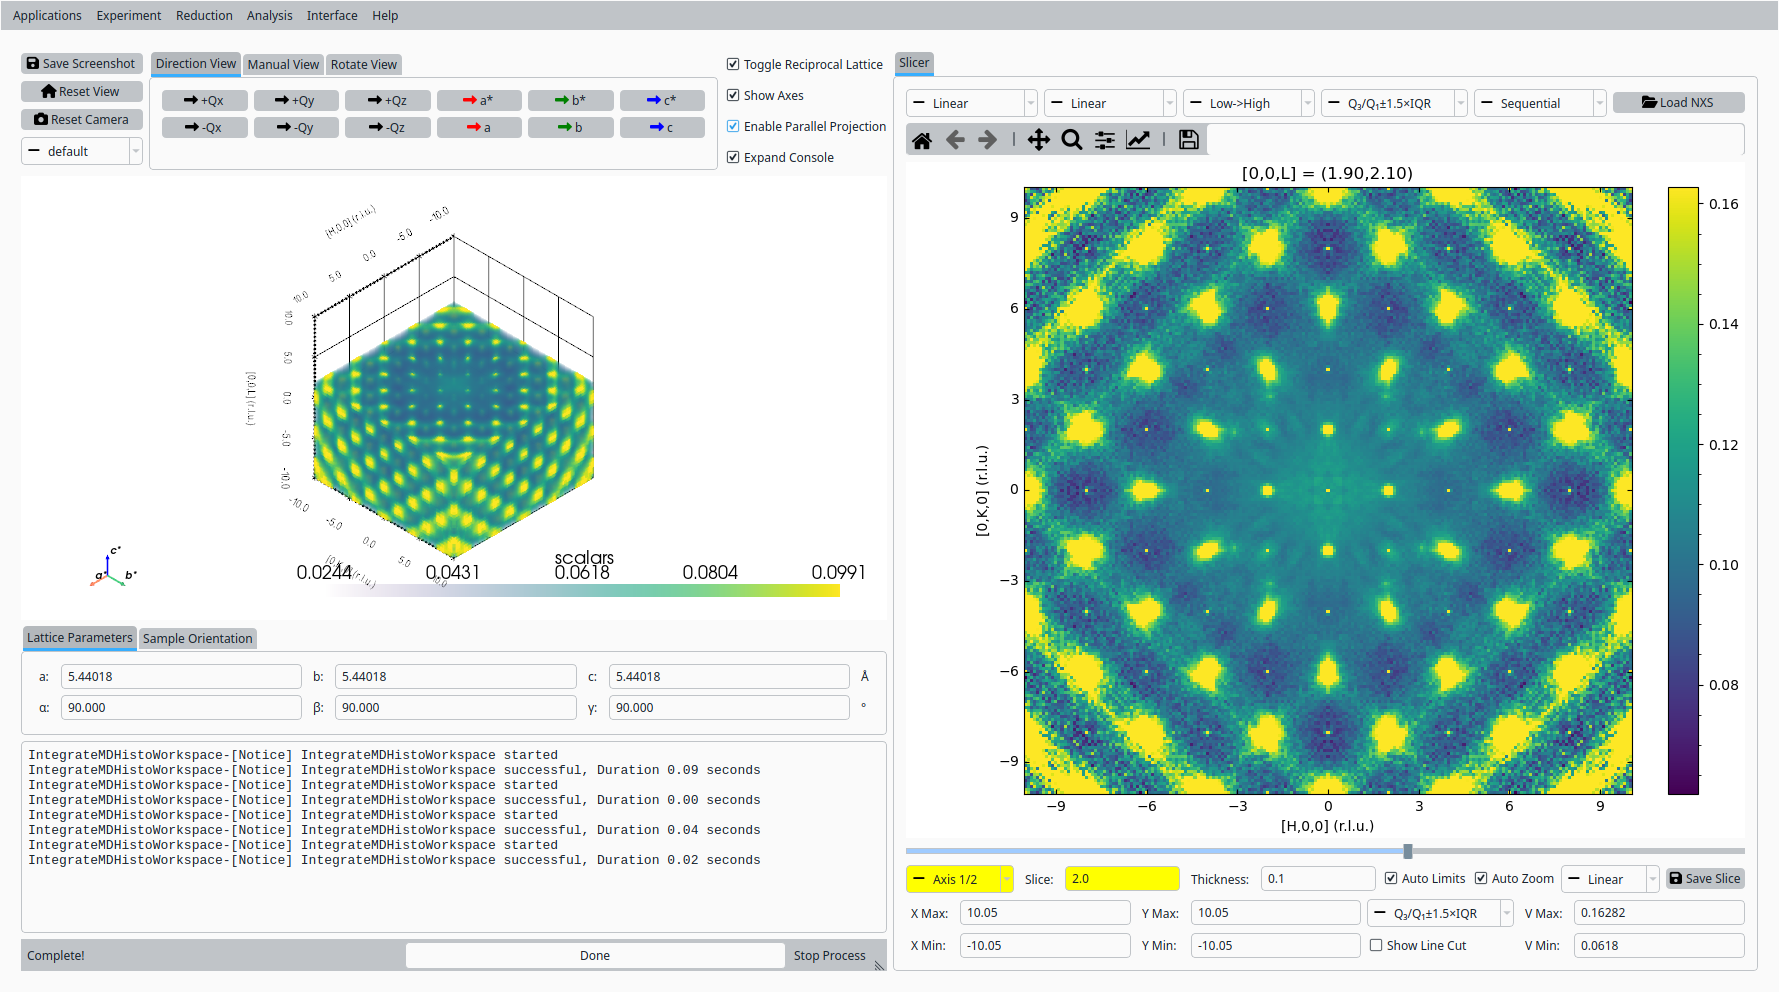
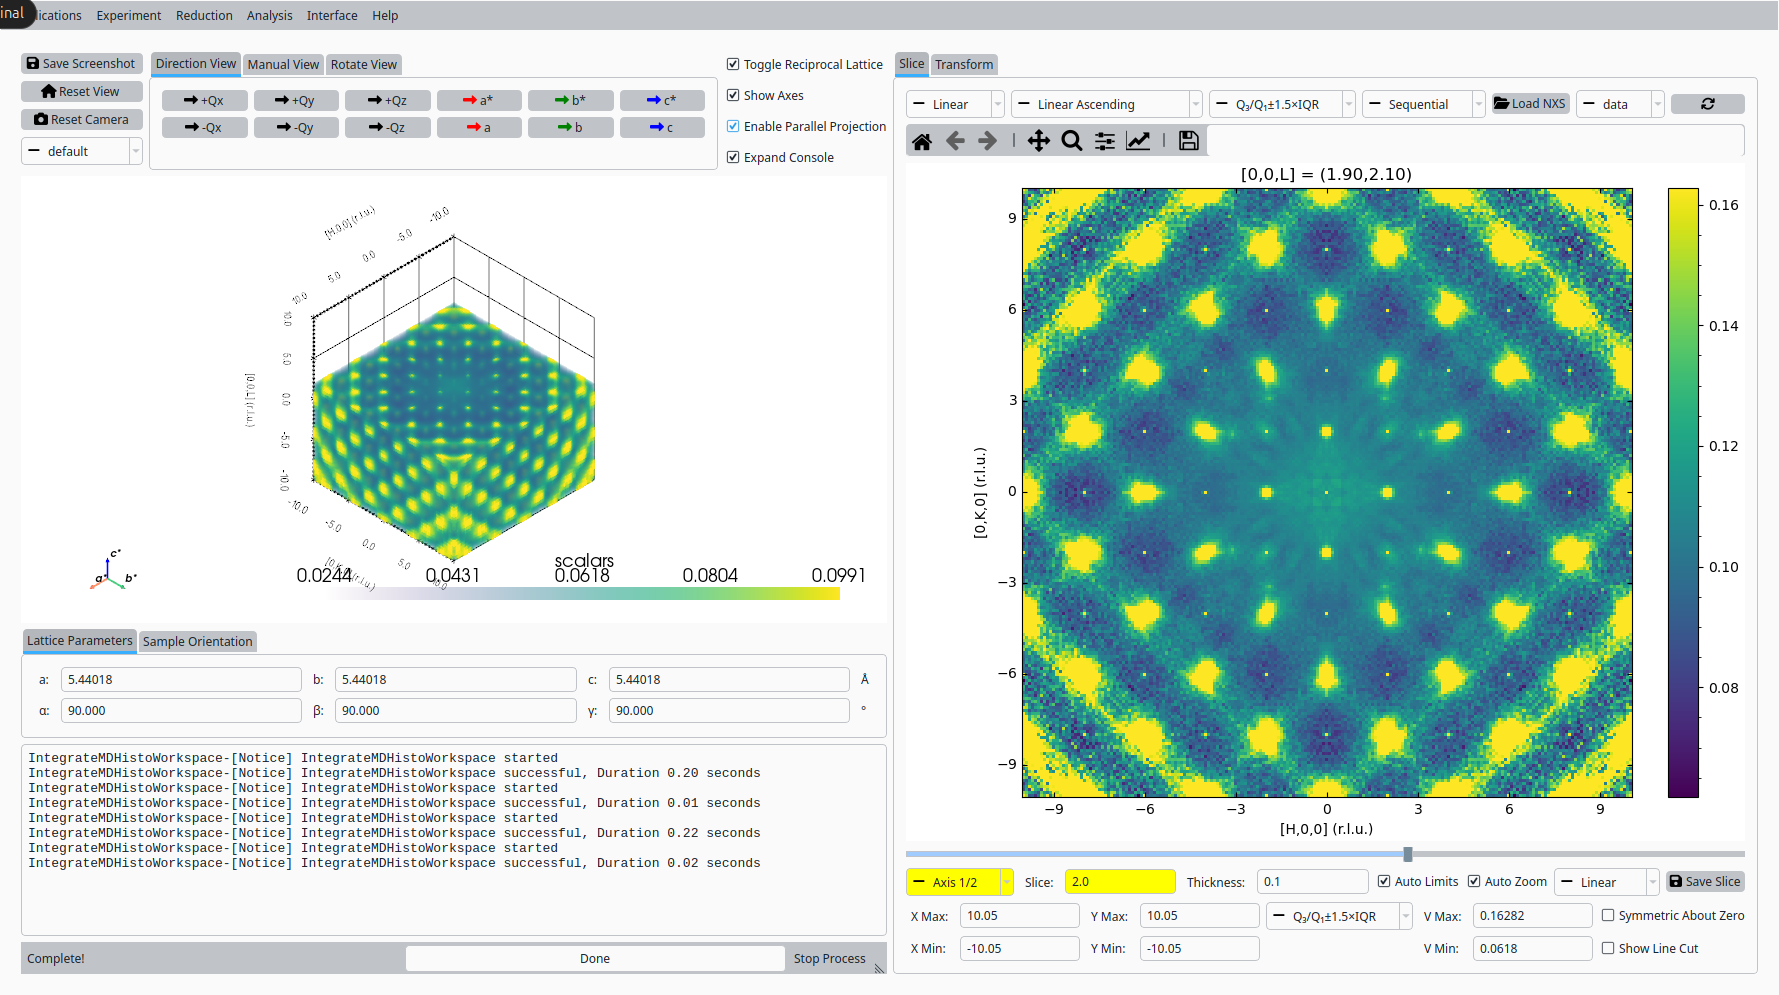
Adding 3d-deltaPDF tuttorials

diff --git a/tests/applications/volume-slicer.py b/tests/applications/volume-slicer.py
@@ -10,6 +10,14 @@ from utilities import run_qt_scenario, copy_generated_pngs
 DIRECTORY = os.path.dirname(os.path.abspath(__file__))
 
 
+def _select_combo_item_starting_with(combo, prefix):
+    for i in range(combo.count()):
+        if combo.itemText(i).startswith(prefix):
+            combo.setCurrentIndex(i)
+            return
+    raise ValueError(f"No combo item starting with {prefix!r}")
+
+
 def TOPAZ_Si_volume(app, window):
     directory = os.path.join(DIRECTORY, "TOPAZ")
 
@@ -24,6 +32,7 @@ def TOPAZ_Si_volume(app, window):
         + "Si_AG_300K_(h,k,0)_[0,0,l]_"
         + "[-10.0,10.0]_[-10.0,10.0]_[-10.0,10.0]_201x201x201_m-3m_sub_bkg.nxs"
     )
+    vs_presenter.refresh_workspace_lists()
     vs_presenter.update_oriented_lattice()
     vs_presenter.view.set_transform(vs_presenter.model.get_transform())
     vs_presenter.redraw_data()
@@ -84,8 +93,206 @@ def TOPAZ_Si_volume(app, window):
     copy_generated_pngs(directory)
 
 
+def CORELLI_Bixbyite_deltaPDF(app, window):
+    directory = os.path.join(DIRECTORY, "CORELLI")
+
+    app_stack = window.centralWidget().layout().itemAt(0).widget()
+    app_stack.setCurrentIndex(2)
+
+    vs_presenter = window.vs
+    vs_view = vs_presenter.view
+
+    # --- Step 1: load the 6 K data ----------------------------------
+    vs_presenter.model.load_md_histo_workspace(
+        "/SNS/EXAMPLES/CORELLI/IPTS-12345/shared/"
+        + "bixbyite_006K_(h,k,0)_[0,0,l]_"
+        + "[-10.0,10.0]_[-10.0,10.0]_[-10.0,10.0]_201x201x201_m-3.nxs",
+        display_name="006K",
+    )
+    vs_presenter.refresh_workspace_lists()
+    vs_presenter.update_oriented_lattice()
+    vs_view.set_transform(vs_presenter.model.get_transform())
+    vs_presenter.redraw_data()
+
+    vs_view.load_NXS_button.setStyleSheet("background-color: green;")
+
+    QTest.qWait(1000 * 10)
+
+    app.primaryScreen().grabWindow(window.winId()).save(
+        os.path.join(directory, "Bixbyite_deltaPDF_load_006K.png"), "png"
+    )
+
+    vs_view.load_NXS_button.setStyleSheet("")
+
+    # --- Step 2: load the 300 K data ---------------------------------
+    vs_presenter.model.load_md_histo_workspace(
+        "/SNS/EXAMPLES/CORELLI/IPTS-12345/shared/"
+        + "bixbyite_300K_(h,k,0)_[0,0,l]_"
+        + "[-10.0,10.0]_[-10.0,10.0]_[-10.0,10.0]_201x201x201_m-3.nxs",
+        display_name="300K",
+    )
+    vs_presenter.refresh_workspace_lists()
+    vs_presenter.redraw_data()
+
+    vs_view.load_NXS_button.setStyleSheet("background-color: green;")
+
+    QTest.qWait(1000 * 10)
+
+    app.primaryScreen().grabWindow(window.winId()).save(
+        os.path.join(directory, "Bixbyite_deltaPDF_load_300K.png"), "png"
+    )
+
+    vs_view.load_NXS_button.setStyleSheet("")
+
+    # --- Step 3: subtract the scaled 300 K background ----------------
+    vs_view.tab_widget.setCurrentIndex(1)
+
+    vs_view.combine_ws_a_combo.setCurrentText("006K")
+    vs_view.combine_ws_b_combo.setCurrentText("300K")
+    vs_view.combine_coeff_b_line.setText("0.95")
+    vs_view.combine_output_line.setText("subtracted")
+
+    vs_view.combine_ws_a_combo.setStyleSheet("background-color: yellow;")
+    vs_view.combine_ws_b_combo.setStyleSheet("background-color: yellow;")
+    vs_view.combine_coeff_b_line.setStyleSheet("background-color: yellow;")
+    vs_view.combine_output_line.setStyleSheet("background-color: yellow;")
+    vs_view.combine_button.setStyleSheet("background-color: green;")
+
+    QTest.mouseClick(vs_view.combine_button, Qt.LeftButton)
+    QTest.qWait(1000 * 5)
+
+    app.primaryScreen().grabWindow(window.winId()).save(
+        os.path.join(directory, "Bixbyite_deltaPDF_subtract.png"), "png"
+    )
+
+    vs_view.combine_ws_a_combo.setStyleSheet("")
+    vs_view.combine_ws_b_combo.setStyleSheet("")
+    vs_view.combine_coeff_b_line.setStyleSheet("")
+    vs_view.combine_output_line.setStyleSheet("")
+    vs_view.combine_button.setStyleSheet("")
+
+    # --- Step 4: view the subtracted data -----------------------------
+    vs_view.workspace_combo.setCurrentText("subtracted")
+    QTest.qWait(1000 * 10)
+
+    vs_view.vmin_line.setText("0")
+    vs_view.vmax_line.setText("0.00001")
+    vs_presenter.update_cvals()
+
+    vs_view.workspace_combo.setStyleSheet("background-color: yellow;")
+    vs_view.vmin_line.setStyleSheet("background-color: yellow;")
+    vs_view.vmax_line.setStyleSheet("background-color: yellow;")
+
+    QTest.qWait(1000 * 5)
+
+    app.primaryScreen().grabWindow(window.winId()).save(
+        os.path.join(directory, "Bixbyite_deltaPDF_view_subtracted.png"), "png"
+    )
+
+    vs_view.workspace_combo.setStyleSheet("")
+    vs_view.vmin_line.setStyleSheet("")
+    vs_view.vmax_line.setStyleSheet("")
+
+    # --- Step 5: punch the Bragg peaks --------------------------------
+    index = vs_view.pdf_crystal_system_combo.findText("Cubic")
+    vs_view.pdf_crystal_system_combo.setCurrentIndex(index)
+    vs_presenter.update_pdf_space_groups()
+    _select_combo_item_starting_with(vs_view.pdf_space_group_combo, "206:")
+
+    vs_view.punch_input_combo.setCurrentText("subtracted")
+    vs_view.punch_q_size_line.setText("0.25")
+
+    vs_view.pdf_crystal_system_combo.setStyleSheet("background-color: yellow;")
+    vs_view.pdf_space_group_combo.setStyleSheet("background-color: yellow;")
+    vs_view.punch_input_combo.setStyleSheet("background-color: yellow;")
+    vs_view.punch_q_size_line.setStyleSheet("background-color: yellow;")
+    vs_view.run_punch_button.setStyleSheet("background-color: green;")
+
+    QTest.mouseClick(vs_view.run_punch_button, Qt.LeftButton)
+    QTest.qWait(1000 * 20)
+
+    app.primaryScreen().grabWindow(window.winId()).save(
+        os.path.join(directory, "Bixbyite_deltaPDF_punch.png"), "png"
+    )
+
+    vs_view.pdf_crystal_system_combo.setStyleSheet("")
+    vs_view.pdf_space_group_combo.setStyleSheet("")
+    vs_view.punch_input_combo.setStyleSheet("")
+    vs_view.punch_q_size_line.setStyleSheet("")
+    vs_view.run_punch_button.setStyleSheet("")
+
+    # --- Step 6: fill the punched regions (blur) ----------------------
+    vs_view.blur_input_combo.setCurrentText("punched")
+    vs_view.blur_output_line.setText("filled")
+    vs_view.blur_q_blur_line.setText("0.1")
+
+    vs_view.blur_input_combo.setStyleSheet("background-color: yellow;")
+    vs_view.blur_output_line.setStyleSheet("background-color: yellow;")
+    vs_view.blur_q_blur_line.setStyleSheet("background-color: yellow;")
+    vs_view.run_blur_button.setStyleSheet("background-color: green;")
+
+    QTest.mouseClick(vs_view.run_blur_button, Qt.LeftButton)
+    QTest.qWait(1000 * 15)
+
+    app.primaryScreen().grabWindow(window.winId()).save(
+        os.path.join(directory, "Bixbyite_deltaPDF_fill.png"), "png"
+    )
+
+    vs_view.blur_input_combo.setStyleSheet("")
+    vs_view.blur_output_line.setStyleSheet("")
+    vs_view.blur_q_blur_line.setStyleSheet("")
+    vs_view.run_blur_button.setStyleSheet("")
+
+    # --- Step 7: calculate the 3D-delta PDF ---------------------------
+    vs_view.pdf_input_combo.setCurrentText("filled")
+    index = vs_view.pdf_window_combo.findText("Lorch")
+    vs_view.pdf_window_combo.setCurrentIndex(index)
+
+    vs_view.pdf_input_combo.setStyleSheet("background-color: yellow;")
+    vs_view.pdf_window_combo.setStyleSheet("background-color: yellow;")
+    vs_view.calculate_pdf_button.setStyleSheet("background-color: green;")
+
+    QTest.mouseClick(vs_view.calculate_pdf_button, Qt.LeftButton)
+    QTest.qWait(1000 * 15)
+
+    app.primaryScreen().grabWindow(window.winId()).save(
+        os.path.join(directory, "Bixbyite_deltaPDF_transform.png"), "png"
+    )
+
+    vs_view.pdf_input_combo.setStyleSheet("")
+    vs_view.pdf_window_combo.setStyleSheet("")
+    vs_view.calculate_pdf_button.setStyleSheet("")
+
+    # --- Step 8: view the 3D-delta PDF --------------------------------
+    vs_view.tab_widget.setCurrentIndex(0)
+
+    vs_view.workspace_combo.setCurrentText("pdf")
+    QTest.qWait(1000 * 10)
+
+    vs_view.vmin_line.setText("-1")
+    vs_view.vmax_line.setText("1")
+    vs_presenter.update_cvals()
+
+    vs_view.workspace_combo.setStyleSheet("background-color: yellow;")
+    vs_view.vmin_line.setStyleSheet("background-color: yellow;")
+    vs_view.vmax_line.setStyleSheet("background-color: yellow;")
+
+    QTest.qWait(1000 * 5)
+
+    app.primaryScreen().grabWindow(window.winId()).save(
+        os.path.join(directory, "Bixbyite_deltaPDF_view_pdf.png"), "png"
+    )
+
+    vs_view.workspace_combo.setStyleSheet("")
+    vs_view.vmin_line.setStyleSheet("")
+    vs_view.vmax_line.setStyleSheet("")
+
+    copy_generated_pngs(directory)
+
+
 SCENARIOS = {
     "TOPAZ_Si_volume": TOPAZ_Si_volume,
+    "CORELLI_Bixbyite_deltaPDF": CORELLI_Bixbyite_deltaPDF,
 }
 
 if __name__ == "__main__":

diff --git a/docs/source/tutorial_volume_CORELLI_Bixbyite.rst b/docs/source/tutorial_volume_CORELLI_Bixbyite.rst
@@ -1,0 +1,92 @@
+.. _tutorial_corelli_volume_deltapdf:
+
+3D-ΔPDF with CORELLI Bixbyite Data
+===================================
+
+This tutorial demonstrates how to use the volume slicer's Transform tab in NeuXtalViz to calculate a 3D-ΔPDF from normalized CORELLI bixbyite volume data collected at 6 K and 300 K.
+
+Step 1: Load the 6 K Data
+--------------------------
+- Open NeuXtalViz and navigate to the Volume Slicer tab.
+- Load the normalized NeXus file for the 6 K dataset, naming it "006K".
+
+.. figure:: Bixbyite_deltaPDF_load_006K.png
+   :width: 100%
+   :align: center
+
+   Load the 6 K bixbyite data.
+
+Step 2: Load the 300 K Data
+----------------------------
+- Load the normalized NeXus file for the 300 K dataset, naming it "300K".
+
+.. figure:: Bixbyite_deltaPDF_load_300K.png
+   :width: 100%
+   :align: center
+
+   Load the 300 K bixbyite data.
+
+Step 3: Subtract the High-Temperature Background
+--------------------------------------------------
+- Switch to the Transform tab.
+- In the arithmetic panel, select "006K" as workspace A and "300K" as workspace B, scaling B by 0.95.
+- Name the output "subtracted" and run the subtraction.
+
+.. figure:: Bixbyite_deltaPDF_subtract.png
+   :width: 100%
+   :align: center
+
+   Subtract the scaled 300 K background from the 6 K data.
+
+Step 4: View the Subtracted Data
+----------------------------------
+- Select "subtracted" in the workspace combo.
+- Set the color limits to V Min = 0 and V Max = 1e-5.
+
+.. figure:: Bixbyite_deltaPDF_view_subtracted.png
+   :width: 100%
+   :align: center
+
+   View the subtracted reciprocal-space data.
+
+Step 5: Punch the Bragg Peaks
+--------------------------------
+- Select the "Cubic" crystal system and space group 206.
+- Select "subtracted" as the input workspace, set the punch size to 0.25 (keeping the default inner radius), and run the punch.
+
+.. figure:: Bixbyite_deltaPDF_punch.png
+   :width: 100%
+   :align: center
+
+   Punch out the Bragg peaks and low-Q region.
+
+Step 6: Fill the Punched Regions
+-----------------------------------
+- Select "punched" as the input workspace, name the output "filled", set the blur size to 0.1, and run the blur.
+
+.. figure:: Bixbyite_deltaPDF_fill.png
+   :width: 100%
+   :align: center
+
+   Fill the punched regions with a NaN-Gaussian blur.
+
+Step 7: Calculate the 3D-ΔPDF
+--------------------------------
+- Select "filled" as the input workspace, choose the "Lorch" apodization window (keeping the default outer Q), and calculate the 3D-ΔPDF.
+
+.. figure:: Bixbyite_deltaPDF_transform.png
+   :width: 100%
+   :align: center
+
+   Calculate the 3D-ΔPDF.
+
+Step 8: View the 3D-ΔPDF
+---------------------------
+- Select "pdf" in the workspace combo.
+- Set the color limits to V Min = -1 and V Max = 1.
+
+.. figure:: Bixbyite_deltaPDF_view_pdf.png
+   :width: 100%
+   :align: center
+
+   View the resulting 3D-ΔPDF.

diff --git a/docs/source/NeuXtalViz.tutorials.rst b/docs/source/NeuXtalViz.tutorials.rst
@@ -19,6 +19,7 @@ NeuXtalViz tutorials
    tutorial_ub_tools_CORELLI_Bixbyite
    tutorial_ub_tools_CORELLI_Natrolite
    tutorial_crystal_structure_CORELLI_Natrolite
+   tutorial_volume_CORELLI_Bixbyite
 
 .. toctree::
    :maxdepth: 2
